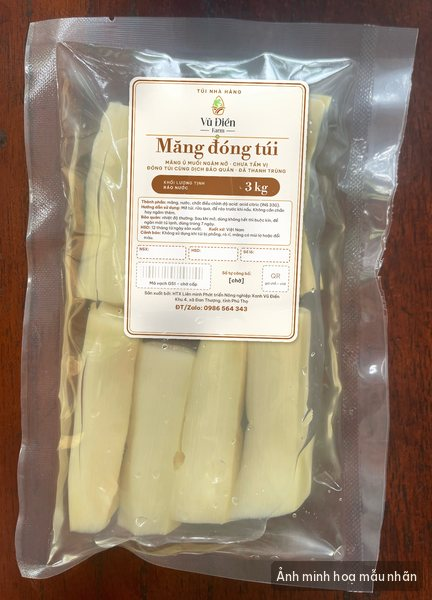
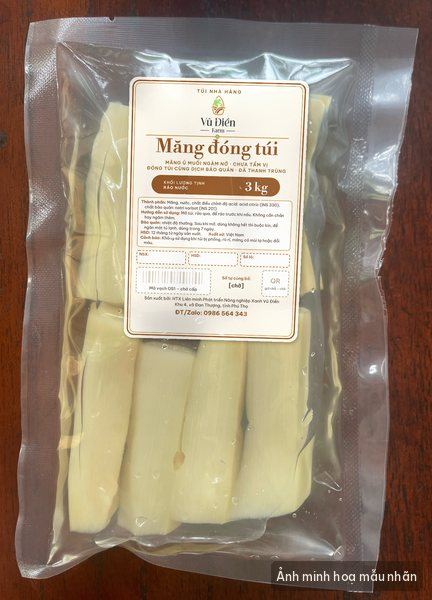
Update product details on the preview site.
Replace the published static files with the new build.

Changed region(s): [[0.3009, 0.33, 0.6921, 0.54]]

diff --git a/cau-chuyen/mang-dong-tui-la-gi/index.html b/cau-chuyen/mang-dong-tui-la-gi/index.html
@@ -57,7 +57,7 @@
    <div class="tt-prose">
 <p>Với nhiều quán phở, bún, miến, măng là món không thể thiếu: bún măng vịt, miến măng, canh măng, lẩu măng. Nhưng để có một nồi măng ngon, bếp thường phải mất nhiều công: mua măng, ngâm, xả, đun, thay nước nhiều lần. <strong>Măng đóng túi</strong> của Vũ Điền Farm được làm ra để bớt phần việc đó cho bếp.</p>
 <h2>Măng đóng túi là gì?</h2>
-<p>Măng đóng túi là sản phẩm làm từ <strong>măng ủ muối</strong> của xưởng Vũ Điền ở Đan Thượng, Phú Thọ. Tại xưởng, măng ủ muối được xả muối và <strong>ngâm cho nở</strong> – khối lượng tăng khoảng <strong>2,3 lần</strong> – rồi cho vào túi cùng <strong>dịch bảo quản</strong> và hàn kín. Măng <strong>chưa tẩm vị</strong>; khối lượng ghi trên túi là <strong>khối lượng tịnh ráo nước</strong>.</p>
+<p>Măng đóng túi là sản phẩm làm từ <strong>măng ủ muối</strong> của xưởng Vũ Điền ở Đan Thượng, Phú Thọ. Tại xưởng, măng ủ muối được xả muối và <strong>ngâm cho nở</strong> – khối lượng tăng khoảng <strong>2,3 lần</strong> – rồi cho vào túi cùng <strong>dịch bảo quản</strong> và hàn kín. Thành phần: Măng, nước, chất điều chỉnh độ acid: acid citric (INS 330), chất bảo quản: natri sorbat (INS 201). Măng <strong>chưa tẩm vị</strong>; khối lượng ghi trên túi là <strong>khối lượng tịnh ráo nước</strong>.</p>
 <p>Nói ngắn gọn: phần “làm nở măng” vốn tốn thời gian nhất đã được làm tại xưởng. Ở bếp chỉ cần: mở túi, rửa qua, để ráo trước khi nấu. Không cần chần hay ngâm thêm.</p>
 <h2>Bếp tiết kiệm được gì?</h2>
 <p><strong>1. Thời gian sơ chế mỗi ngày.</strong> Với măng tự sơ chế, bếp phải chuẩn bị từ hôm trước và trông nồi nhiều giờ. Với măng đóng túi, bếp mở túi, rửa qua, để ráo là vào món.</p>

diff --git a/san-pham/mang-dong-tui/index.html b/san-pham/mang-dong-tui/index.html
@@ -61,7 +61,7 @@
    <h2>Mô tả</h2>
    <p class="lead">Măng ủ muối của xưởng Đan Thượng được <b>ngâm nở</b>, <b>chưa tẩm vị</b>, rồi <b>đóng túi cùng dịch bảo quản</b> và <b>thanh trùng</b> sau khi đóng túi – bếp bớt khâu chuẩn bị mỗi ngày.</p>
    <dl class="specs">
-    <dt>Thành phần</dt><dd>Măng, nước, chất điều chỉnh độ acid: acid citric (INS 330).</dd>
+    <dt>Thành phần</dt><dd>Măng, nước, chất điều chỉnh độ acid: acid citric (INS 330), chất bảo quản: natri sorbat (INS 201)</dd>
     <dt>Khối lượng</dt><dd>Ghi theo <b>khối lượng tịnh ráo nước</b></dd>
     <dt>Quy cách</dt><dd><b>Túi nhà hàng 3–5 kg</b> – đang cung ứng · <b>Túi bán lẻ 300 g và 500 g</b> <span class="sap-co">Sắp có</span></dd>
     <dt>Dùng cho</dt><dd>Quán phở, bún, miến (bún măng, miến măng, canh măng) · nhà hàng Việt (lẩu, xào, canh) · bếp ăn tập thể, căng tin · mối buôn và cửa hàng thực phẩm · gia đình (túi bán lẻ – sắp có)</dd>
